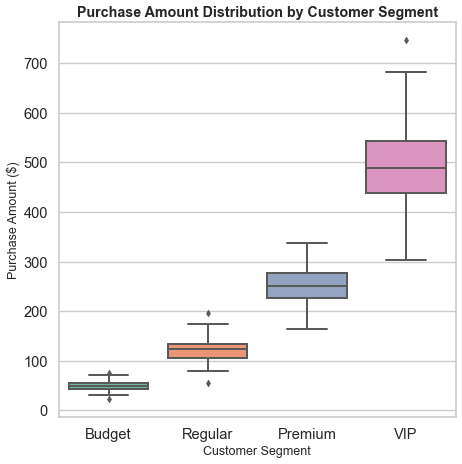
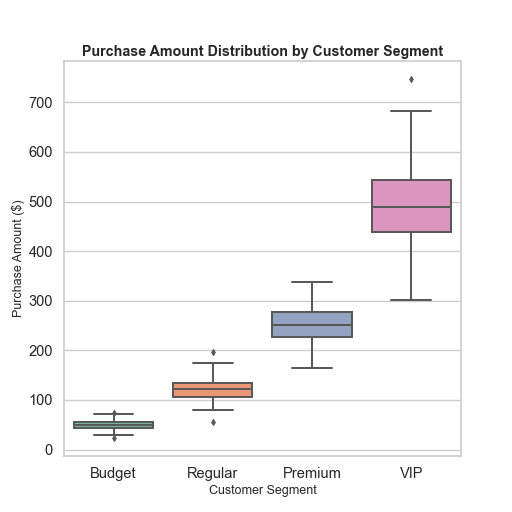
Add files via upload

Changed region(s): [[0.0, 0.0, 1.0, 0.9957], [0.0606, 0.7543, 0.0909, 0.8147], [0.7879, 0.1509, 0.8182, 0.181]]

diff --git a/chart.py b/chart.py
@@ -26,12 +26,13 @@ df = pd.DataFrame(data, columns=["Segment", "PurchaseAmount"])
 sns.set_style("whitegrid")
 sns.set_context("talk")
 
-plt.figure(figsize=(8, 8))  # 8x8 inches at dpi=64 = 512x512 pixels
-ax = sns.boxplot(x="Segment", y="PurchaseAmount", data=df,
-                 palette="Set2")
+# Figure size: 8x8 inches, dpi=64 → exactly 512x512 pixels
+plt.figure(figsize=(8, 8), dpi=64)
+ax = sns.boxplot(x="Segment", y="PurchaseAmount", data=df, palette="Set2")
 
 ax.set_title("Purchase Amount Distribution by Customer Segment", fontsize=16, weight="bold")
 ax.set_xlabel("Customer Segment", fontsize=14)
 ax.set_ylabel("Purchase Amount ($)", fontsize=14)
 
-plt.savefig("chart.png", dpi=64, bbox_inches="tight")
+# Save chart at exactly 512x512 pixels
+plt.savefig("chart.png", dpi=64)  # no bbox_inches
